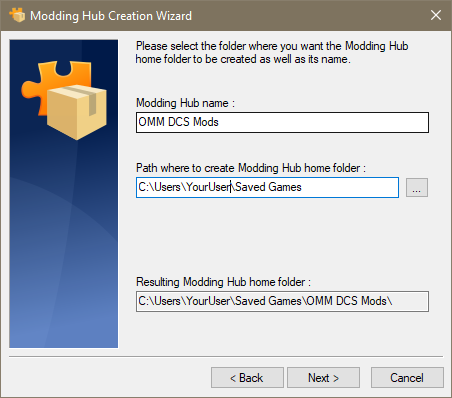
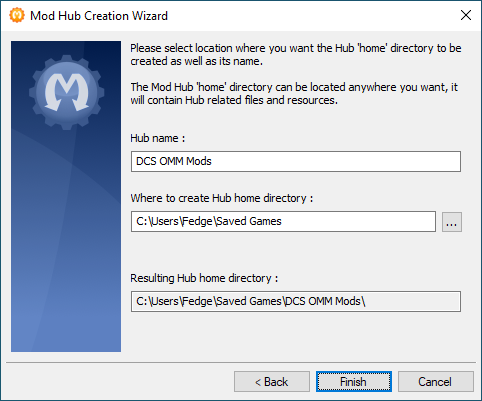
Update instructions for OMM 1.2+

Changed region(s): [[0.0, 0.0, 1.0, 1.0]]

diff --git a/Mods/README.md b/Mods/README.md
@@ -9,7 +9,7 @@
 * [Advanced OMM Features](#advanced-omm-features)
 
 
-### OMM Download Link
+## OMM Download Link
 
 Download the latest release of OMM from the link below, and install it.
 
@@ -17,67 +17,81 @@ Download the latest release of OMM from the link below, and install it.
 
 ---
 
-### Initial Setup
+## Initial Setup
 
 Before you can connect to the One Actual mod repository and start downloading mods, you'll need to perform a few one-time, initial setup tasks in OMM.
 
-##### STEP 1: Create a new "Modding Hub" for DCS
-> A "modding hub" is just a collection of settings specific to a single game (like DCS).
+#### STEP 1: Create a new "Mod Hub" for DCS
+> A "mod hub" is just a collection of settings specific to a single game (like DCS).
 
-1. Navigate to **File** > **New** > **Modding Hub ...**
-	> The "Modding Hub Creation Wizard" will appear
+1. Navigate to **File** > **New** > **Mod Hub ...**
+	> The "Mod Hub Creation Wizard" will appear
 2. Click **Next**
 
-##### STEP 2: Configure the DCS "Modding Hub"
+#### STEP 2: Configure the DCS "Mod Hub"
 > OMM supports modding any game, so this name will be specific to your DCS mods. This will be the name and path of the folder where OMM stores all its files specific to DCS. You can choose any name and any path you want.
 
-1. Enter a **Modding Hub name**
-	- Recommended name: `OMM-DCS`
-2. Choose a path for the modding hub
+1. Enter a **Hub name**
+	- Recommended name: `DCS OMM Mods`
+2. Choose a path for the modd hub
 	- Recommended path: `C:\Users\<you>\Saved Games`
 	- This is where all the mods will be downloaded and stored.
-3. Click **Next**
+3. Click **Finish**
 
 ![Modding Hub Creation](img/omm1.png)
 
-##### STEP 3: Create a new "Channel"
+#### STEP 3: Create a new "Channel"
 > A "channel" refers to a specific location where mods will be installed. We'll need to create a channel that points to the DCS Saved Games folder, which is where we need to install our mods. You can name the channel anything you want, but the channel's "target path" must be set correctly.
 
-1. Enter a **Channel name**
-	- Recommended name: `DCS-SavedGames`
-2. Set the target path to point to your DCS Saved Games folder
-	- Target path: `C:\Users\<you>\Saved Games\DCS.openbeta`
+A popup window should appear, asking you whether you want add a new channel. Click **Yes**. If this window doesn't appear, you can get there by navigating to **Hub** > **Add Channel**.
+
+1. Click **Next >** on the channel creation wizard
+2. Enter a **Channel title**
+	- Recommended title: `DCS-SavedGames`
+3. Set the **Modding target directory** to point to your DCS Saved Games folder
+	- Target path: `C:\Users\<you>\Saved Games\DCS`
 	- (or, wherever your DCS saved games folder actually lives)
 
-3. Leave the two checkboxes unchecked, unless you specifically want to change where OMM stores your mods.
+4. Click **Next >**
 
-4. Click **Finish**
+5. Leave the two checkboxes unchecked, unless you specifically want to change where OMM stores your mods.
+
+6. Click **Finish**
 
 ![Channel Creation](img/omm2.png)
 
-##### STEP 4: Connect to the One Actual mod repository
+You should now see your "DCS-SavedGames" channel, and your OMM window should like this:
+
+![Main Window](img/omm3-local.png)
+
+
+#### STEP 4: Connect to the One Actual mod repository
 > One Actual makes our mods available for download at our website. We need to configure OMM to look for our mods manifest so it can retrieve the list of mods available for download.
 
-1. Click on the **Repositories** tab near the top of the OMM window.
+1. Click on the **Network Library** tab near the top of the OMM window.
 
-2. Add a new repository by clicking on the small `|+|` button on the right side of the repositories window.
-	> The "New Repository" window will appear.
+2. Add a new repository by clicking on the small green `|+|` button on the left side of the repositories window.
+	> The "Repository Configuration Wizard" window will appear.
 
-![Add Repository](img/omm3a.png)
+![Add Repository](img/omm3-network.png)
 
-3. Enter One Actual's **Repository address**
-	- **URL**: `http://one-actual.com/mods`
-	- **name**: `default`
+3. Click **Next >**
 
-4. Click the **Test** button to make sure that you can connect to the repository and download the mods list.
+4. Enter One Actual's **Repository address**, then click **Next >**
+	- **Base address**: `http://one-actual.com/mods`
+	- **Name**: `default`
+
+![Add Repository](img/omm4-addr.png)
+
+5. OMM will attempt to connect to the repository and download the mods list. (You can also click the **Send query** button)
 	> You should see a few lines appear in the text box below that indicate whether or not you successfully connected to the mods repository.
 
-5. If you get the message "_The Repository appears to be valid!_", then click the **OK** button.
+6. If you get the message "_Repository appears valid_", then click the **Finish** button.
 	> The One Actual mods repo is now configured and you can check for updates.
 
-![New Repository](img/omm3b.png)
+![New Repository](img/omm4-test.png)
 
-##### STEP 5: Done with initial setup
+#### STEP 5: Done with initial setup
 > The initial setup of OMM is now complete, and shouldn't have repeat these steps ever again.
 
 - You can proceed to [downloading and installing](#downloading-and-installing-mods) the mods.
@@ -85,19 +99,19 @@ Before you can connect to the One Actual mod repository and start downloading mo
 
 ---
 
-### Downloading and Installing Mods
+## Downloading and Installing Mods
 
-##### STEP 1: Refresh the One Actual mods repository
+#### STEP 1: Refresh the One Actual mods repository
 > Refreshing the mods repo will allow you to check for new mods, or updates to existing mods. You can refresh as frequently as you'd like.
 
 1. Refresh the One Actual mods repo:
-	- Click the small _circular arrow_ button on the right side of the repositories window.
+	- Click the small _circular arrow_ button on the left side of the repositories window.
 	—— or ——
 	- Double-click the repository in the repositories list.
 
 2. OMM should download our mods list and show you all the mods available for download.
 
-![New Repository](img/omm4b.png)
+![New Repository](img/omm5.png)
 
 **Status Symbols:**
 
@@ -113,14 +127,14 @@ Before you can connect to the One Actual mod repository and start downloading mo
 
 	![A mod that has an update available](img/omm-dl-upd.png)
 
-##### STEP 2: Download Mods
+#### STEP 2: Download Mods
 1. Double click a mod to download it.
 —— or ——
 Shift-click multiple mods in the list and click the **Download** button to download multiple mods at the same time.
 
 	> Once mods are downloaded, they will receive a green checkmark.
 
-##### STEP 3: Install Mods
+#### STEP 3: Install Mods
 1. Click on the **Library** Tab at the top of the OMM window.
 	> This will show you all the mods in the currently selected OMM channel's library folder. This includes all the mods you just downloaded, in addition to any mods that you have manually moved into your `C:\Users\<you>\Saved Games\OMM-DCS\DCS-SavedGames\Library` folder.
 
@@ -130,14 +144,29 @@ Shift-click multiple mods in the list and click the **Install** button to instal
 
 	> Once installed, a green checkmark will appear next to the mod name.
 
-##### Uninstalling Mods
+#### Uninstalling Mods
 You can uninstall mods exactly the same way you installed them: Double click the mod, or select multiple mods and click the **Uninstall** button. OMM will remove these mods from your DCS Saved Games folder, but the mod will still be in your OMM-DCS library folder. You can reinstall it at anytime, without having to redownload it.
 
 You can install/uninstall mods quickly and easily depending on what mods are required for whatever DCS game servers you fly on.
 
+## Auto-open Your DCS Hub
+
+You can set OMM to automatically load your DCS mod hub when it starts.
+
+1. Navigate to **Edit** > **Manager options**
+
+2. Check the "Open Mod Hub at startup" option
+
+3. Select the mod hub you created above.
+	> It's probably at `C:\Users\<you>\Saved Games\DCS OMM Mods\hub.omx`
+
+4. Click **Apply**
+
+![Manager options](img/omm6.png)
+
 ---
 
-### Advanced OMM Features
+## Advanced OMM Features
 
 ##### Scripts
 You can create a script that will install a specific subset of mods. For example, if you want to be able to easily install _only_ those mods that are required by our Syria Training map, you can create a new script that will install only the required mods, and will uninstall any extra mods.
